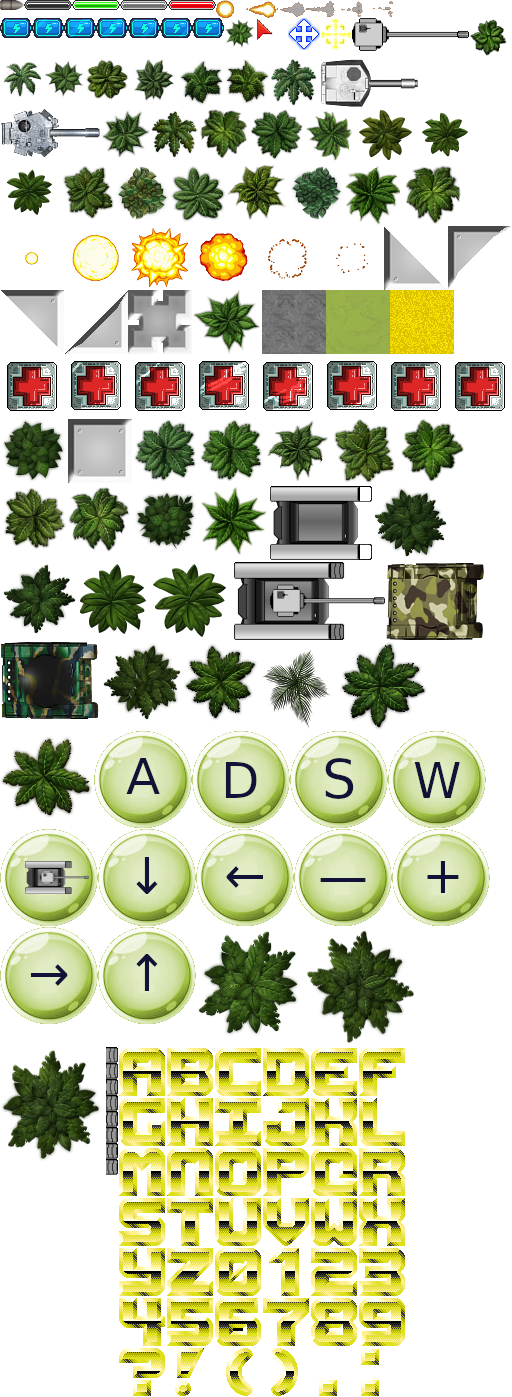
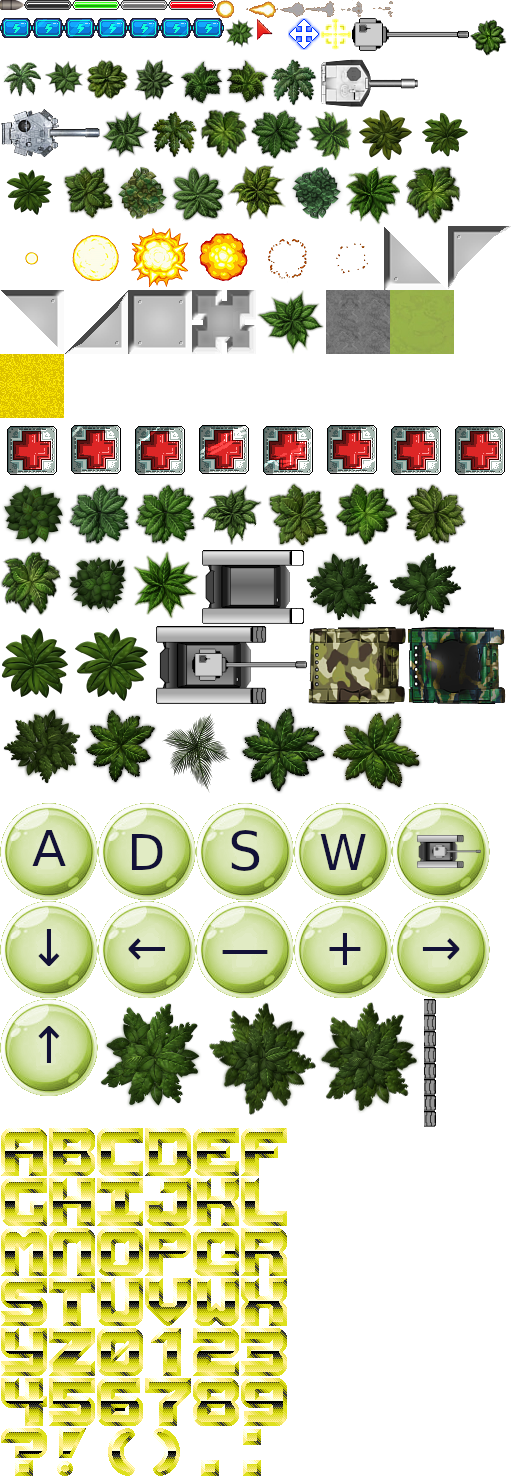
SG2DUtils: addBorderAlphaTextures; ObjectBaseLifeBand: onCameraRotate

diff --git a/sg2d-utils.js b/sg2d-utils.js
@@ -119,41 +119,58 @@ export default class SG2DUtils {
 		canvasMask._pixiId = config.name;
 		var texture = PIXI.Texture.from(canvasMask);
 		texture.canvas = canvasMask;
+		texture._isFinalTexture = true;
 		
 		//(new Image()).src = canvasMask.toDataURL();
 		
 		return canvasMask;
 	}
 	
+	/** @private */
+	static _optionsBAT = {};
+	
 	/**
 	 * Make the border of the sprites semi-transparent (to eliminate artifacts in the form of stripes at the edges of terrain tiles)
-	 * @param {array} amTextures Array of textures
-	 * @param {number} [alpha1=0.5] Transparency for the outermost border (1 pixel from the edge)
-	 * @param {number} [alpha2=1] Transparency for the border 2 pixels from the edge
+	 * @param {object} options
+	 * @param {array}		[options.textures=void 0] Array of textures
+	 * @param {number}		[options.alpha=0.995] Transparency for the outermost border (1 pixel from the edge)
+	 * @param {number}		[options.alpha2=1] Transparency for the border 2 pixels from the edge
 	 */
-	static borderAlphaTextures(amTextures, alpha1 = 0.5, alpha2 = 1) {
-		for (var i = 0; i < amTextures.length; i++) {
-			var texture = typeof amTextures[i] === "object" ? amTextures[i] : PIXI.utils.TextureCache[amTextures[i]];
+	static setBorderAlphaTextures(options={}) {
+		options.textures = options.textures || [];
+		if (! options.textures.length) {
+			this._getFinalTextures(options.textures);
+		}
+		for (var i = 0; i < options.textures.length; i++) {
+			var texture = typeof options.textures[i] === "object" ? options.textures[i] : PIXI.utils.TextureCache[options.textures[i]];
 			if (texture) {
-				this.borderAlphaTexture(PIXI.utils.TextureCache[amTextures[i]], alpha1, alpha2);
+				this._optionsBAT.texture = texture;
+				this._optionsBAT.alpha = options.alpha;
+				this._optionsBAT.alpha2 = options.alpha2;
+				this.setBorderAlphaTexture(this._optionsBAT);
 			} else {
-				console.warn("Texture with name \"" + amTextures[i] + "\" not found!");
+				console.warn("Texture with name \"" + options.textures[i] + "\" not found!");
 			}
 		}
 	}
 	
 	/**
 	 * Make the border of the sprite semi-transparent (to eliminate artifacts in the form of stripes at the edges of terrain tiles)
-	 * @param {PIXI.Texture|string} mTexture
-	 * @param {number} [alpha1=0.5] Transparency for the outermost border (1 pixel from the edge)
-	 * @param {number} [alpha2=1] Transparency for the border 2 pixels from the edge
+	 * @param {object} options
+	 * @param {PIXI.Texture|string}	options.texture
+	 * @param {number}				[options.alpha=0.995] Transparency for the outermost border (1 pixel from the edge)
+	 * @param {number}				[options.alpha2=1] Transparency for the border 2 pixels from the edge
 	 */
-	static borderAlphaTexture(mTexture, alpha1 = 0.5, alpha2 = 1) {
+	static setBorderAlphaTexture(options={}) {
 		
-		alpha1 = ~~(alpha1 * 256);
-		alpha2 = ~~(alpha2 * 256);
+		if (options.alpha === void 0) options.alpha = 0.995;
+		if (options.alpha2 === void 0) options.alpha2 = 1;
 		
-		let canvas = this.getTextureAsCanvas(mTexture);
+		options.alpha = ~~(options.alpha * 256);
+		options.alpha2 = ~~(options.alpha2 * 256);
+		
+		let texture_src = typeof options.texture === "object" ? options.texture : PIXI.utils.TextureCache(options.texture);
+		let canvas = this.getTextureAsCanvas(texture_src);
 		var ctx = canvas.getContext("2d");
 		var imageData = ctx.getImageData(0, 0, canvas.width, canvas.height);
 		var l = canvas.width * canvas.height * 4;
@@ -162,19 +179,61 @@ export default class SG2DUtils {
 			var y = Math.floor(p / canvas.width);
 			var x = p - y * canvas.width;
 			if (x === 0 || y === 0 || x === canvas.width-1 || y === canvas.height-1) {
-				imageData.data[i+3] = Math.min(imageData.data[i+3], alpha1);
+				imageData.data[i+3] = Math.min(imageData.data[i+3], options.alpha);
 			}
-			if (alpha2 < 255 && (x === 1 || y === 1 || x === canvas.width-2 || y === canvas.height-2)) {
-				imageData.data[i+3] = Math.min(imageData.data[i+3], alpha2);
+			if (options.alpha2 < 255 && (x === 1 || y === 1 || x === canvas.width-2 || y === canvas.height-2)) {
+				imageData.data[i+3] = Math.min(imageData.data[i+3], options.alpha2);
 			}
 		}
 		ctx.putImageData(imageData, 0, 0);
 		
 		PIXI.Texture.removeFromCache(canvas.texture);
+		PIXI.BaseTexture.removeFromCache(canvas.texture);
 		
 		canvas._pixiId = canvas.texture;
-		var texture = PIXI.Texture.from(canvas);
-		texture.canvas = canvas;
+		var texture_dest = PIXI.Texture.from(canvas);
+		texture_dest.canvas = canvas;
+		texture_dest._isFinalTexture = texture_src._isFinalTexture;
+	}
+	
+	/**
+	 * Adds a transparent border to a 1 pixel sprite so that PIXI smooths the edges of the sprite when rotated.
+	 * @param {object} options
+	 * @param {array}		[options.textures=void 0]
+	 * @param {boolean}	[options.all=false] If TRUE then a transparent border is added if the sprite has opaque pixels on the border.
+	 */
+	static addBorderAlphaTextures(options) {
+		options.textures = options.textures || [];
+		if (! options.textures.length) {
+			this._getFinalTextures(options.textures);
+		}
+		for (var i = 0; i < options.textures.length; i++) {
+			var texture = typeof options.textures[i] === "object" ? options.textures[i] : PIXI.utils.TextureCache[options.textures[i]];
+			if (texture) {
+				var srcCanvas = SG2DUtils.getTextureAsCanvas(texture);
+				var destCanvas = SG2DUtils.createCanvas(texture.width + 2, texture.height + 2);
+				var destCtx = destCanvas.getContext("2d");
+				destCtx.drawImage(srcCanvas, 1, 1);
+				destCanvas._pixiId = texture.textureCacheIds[0] || texture.canvas._pixiId;
+				PIXI.Texture.removeFromCache(destCanvas._pixiId);
+				PIXI.BaseTexture.removeFromCache(destCanvas._pixiId);
+				var textureDest = PIXI.Texture.from(destCanvas);
+				textureDest.canvas = destCanvas;
+				textureDest._isFinalTexture = texture._isFinalTexture;
+			} else {
+				console.warn("Texture with name \"" + options.textures[i] + "\" not found!");
+			}
+		}
+	}
+	
+	/** @private */
+	static _getFinalTextures(textures) {
+		for (var name in PIXI.utils.TextureCache) {
+			var texture = PIXI.utils.TextureCache[name];
+			if (texture._isFinalTexture) {
+				textures.push(texture);
+			}
+		}
 	}
 	
 	// TODO DEL: (не исп-ся?)
@@ -285,6 +344,7 @@ export default class SG2DUtils {
 			canvas._pixiId = config.name.replace("%", j);
 			var texture = PIXI.Texture.from(canvas);
 			texture.canvas = canvas;
+			texture._isFinalTexture = true;
 			
 			dataPrev = data;
 		}
@@ -293,12 +353,14 @@ export default class SG2DUtils {
 		if (! PIXI.utils.TextureCache[nameStart]) {
 			canvasStart._pixiId = nameStart;
 			var texture = PIXI.Texture.from(canvasStart);
+			texture._isFinalTexture = true;
 		}
 		
 		var nameEnd = config.name.replace("%", config.count);
 		if (! PIXI.utils.TextureCache[nameEnd]) {
 			canvasEnd._pixiId = nameEnd;
 			var texture = PIXI.Texture.from(canvasEnd);
+			texture._isFinalTexture = true;
 		}
 	}
 	
@@ -307,10 +369,12 @@ export default class SG2DUtils {
 			if (r.substr(-6, 6) === "_image") continue;
 			var resource = resources[r];
 			for (var code in resource.textures) {
+				
+				var baseTexture = resource.textures[code];
+				
 				var m = code.match(/(.+)_(\d+)x(\d+)(\w)?(\.\w+)?$/); // Search for pictures with a specific name, for example: "explosion_64x64.png"
 				if (m) {
-					var baseTexture = resource.textures[code];
-					
+					baseTexture._isFinalTexture = false;
 					//SG2DUtils.getTextureUrl(code).then((res)=>{ (new Image()).src = res; }); // debugging
 					
 					var name = m[1];
@@ -335,14 +399,20 @@ export default class SG2DUtils {
 								rect.height = h;
 								rect.x = baseTexture.frame.x + px;
 								rect.y = baseTexture.frame.y + py;
-								var tex = new PIXI.Texture(baseTexture, rect);
-								PIXI.Texture.addToCache(tex, texture_name);
+								var texture = new PIXI.Texture(baseTexture, rect);
+								PIXI.Texture.addToCache(texture, texture_name);
+								texture._isFinalTexture = true;
 								//SG2DUtils.getTextureUrl(name + "_" + index).then((res)=>{ (new Image()).src = res; }); // debugging
 							}
 						}
 					} else {
 						throw "dir vertical no supported! (TODO)";
 					}
+					
+					PIXI.Texture.removeFromCache(baseTexture);
+					PIXI.BaseTexture.removeFromCache(baseTexture);
+				} else {
+					baseTexture._isFinalTexture = true;
 				}
 			}
 		}
@@ -356,6 +426,11 @@ export default class SG2DUtils {
 			} else {
 				const loader = new PIXI.Loader()
 				loader.add(SG2DConsts.SYSTEM_TILES).load((loader, resources)=>{
+					for (var i = 0; i < SG2DConsts.SYSTEM_TILES.length; i++) {
+						PIXI.Texture.removeFromCache( SG2DConsts.SYSTEM_TILES[i].url );
+						PIXI.BaseTexture.removeFromCache( SG2DConsts.SYSTEM_TILES[i].url );
+						PIXI.utils.TextureCache[ SG2DConsts.SYSTEM_TILES[i].name ]._isFinalTexture = true;
+					}
 					resolve();
 				});
 			}

diff --git a/example/main.js b/example/main.js
@@ -19,9 +19,6 @@ import Player from "./classes/player.js";
 
 class Application {
 	
-	static AREASIZE = 128;
-	static CELLSIZEPIX = 64;
-	
 	constructor() {
 		
 		window.app = this;
@@ -43,14 +40,14 @@ class Application {
 		//PIXI.settings.PRECISION_FRAGMENT = PIXI.PRECISION.MEDIUM;
 		this.scene =  new SG2D({
 			canvasId: "canvas",
-			cellsizepix: Application.CELLSIZEPIX,
+			cellsizepix: 64,
 			pixi: { // config passed to PIXI.Application constructor
 				antialias: true,
 				autoStart: false
 			},
 			camera: {
 				rotation: true,
-				rotate: 0,
+				rotate: 45,
 				position: {x: 224, y: 224}, // Start position of the camera. Default [0, 0]
 				scale_min: 2,
 				scale_max: 16,
@@ -58,7 +55,7 @@ class Application {
 				rotate_adjustment: -90 // Base offset of the camera angle in degrees. Default 0
 			},
 			clusters: {
-				areasize: Application.AREASIZE
+				areasize: 128
 			},
 			mouse: {
 				cursors: {
@@ -94,7 +91,7 @@ class Application {
 		// Graphic effects
 		this.sceneEffect = SceneEffects.toApply(this.scene);
 		
-		this.player = new Player({ position: this.scene.clusters.getCluster(5,5).position, angle: 0 }, { mouse: this.scene.mouse, camera: camera });
+		this.player = new Player({ position: this.scene.clusters.getCluster(5,5).position, angle: 45 }, { mouse: this.scene.mouse, camera: camera });
 		
 		/**
 		* The camera can move smoothly behind the player.

diff --git a/example/classes/scene-ui.js b/example/classes/scene-ui.js
@@ -105,12 +105,13 @@ export default class SceneUI {
 		this.buttonCameraScaleOut.sprite.position.set(x_base, y_base - w - w);
 		this.buttonCameraScaleIn.sprite.position.set(x_base, y_base - w);
 		
-		x_base = w + 5;
-		y_base = this.scene.canvas.height - w - w - 10;
-		this.buttonCameraMoveLeft.sprite.position.set(x_base - w - 5, y_base);
-		this.buttonCameraMoveRight.sprite.position.set(x_base + w + 5, y_base);
-		this.buttonCameraMoveUp.sprite.position.set(x_base, y_base - w - 5);
-		this.buttonCameraMoveDown.sprite.position.set(x_base, y_base + w + 5);
-		this.buttonCameraMoveToPlayer.sprite.position.set(x_base, y_base);
+		x_base = 5;
+		y_base = this.scene.canvas.height - 5;
+		this.buttonCameraMoveUp.sprite.position.set(x_base, y_base - 5 * w - 20);
+		this.buttonCameraMoveLeft.sprite.position.set(x_base, y_base - 4 * w - 15);
+		this.buttonCameraMoveToPlayer.sprite.position.set(x_base, y_base - 3 * w - 10);
+		this.buttonCameraMoveRight.sprite.position.set(x_base, y_base - w - w - 5);
+		this.buttonCameraMoveDown.sprite.position.set(x_base, y_base - w);
+		
 	}
 }

diff --git a/example/classes/player.js b/example/classes/player.js
@@ -106,28 +106,14 @@ export default class Player extends ObjectBaseLifeBand {
 		this.keyProcess = this.keyProcess.bind(this);
 		this.mouse.pointerclick = this.pointerClick.bind(this);
 		this.calcTurretAngleTarget = this.calcTurretAngleTarget.bind(this);
-		this.onCameraRotate = this.onCameraRotate.bind(this);
 		
 		this.mouse.on("pxy", this.calcTurretAngleTarget);
 		document.addEventListener("keydown", this.keyProcess);
 		document.addEventListener("keyup", this.keyProcess);
-		this.camera.on("rotate", this.onCameraRotate);
 		
 		this.on("state", this.stateChange);
 		
 		this.set("angle", this.properties.angle, { sprites: [this.sprites.platform, this.sprites.track_left, this.sprites.track_right] });
-	}
-	
-	// the life bar is always at the bottom of the sprite, taking into account the rotation of the camera
-	onCameraRotate(rotate) {
-		if (this.camera.properties.rotation) {
-			this.set("angle", rotate - this.camera.rotate_adjustment, {
-				sprites: [
-					this.sprites.lifeband_base,
-					this.sprites.lifeband_value
-				]
-			});
-		}
 	}
 	
 	keyProcess(e) {

diff --git a/example/classes/object-base-life-band.js b/example/classes/object-base-life-band.js
@@ -37,6 +37,25 @@ export default class ObjectBaseLifeBand extends SG2DTile {
 		}, SG2DTile.defaultProperties);
 	}
 	
+	initialize(...args) {
+		super.initialize(...args);
+		
+		this.onCameraRotate = this.onCameraRotate.bind(this);
+		this.camera.on("rotate", this.onCameraRotate, void 0, void 0, SGModel.FLAG_IMMEDIATELY);
+	}
+	
+	// the life bar is always at the bottom of the sprite, taking into account the rotation of the camera
+	onCameraRotate(rotate) {
+		if (this.camera.properties.rotation) {
+			this.set("angle", rotate - this.camera.rotate_adjustment, {
+				sprites: [
+					this.sprites.lifeband_base,
+					this.sprites.lifeband_value
+				]
+			});
+		}
+	}
+	
 	setHealth(value = void 0, options = SGModel.OBJECT_EMPTY, flags = 0) {
 		if (this.set("health", value, options, flags | SGModel.FLAG_IGNORE_OWN_SETTER)) {
 			this.set("scale", { x: this.properties.health / this.constructor.HEALTH_MAX, y: 1 }, { sprite: this.sprites.lifeband_value });

diff --git a/example/classes/graphics-preparer.js b/example/classes/graphics-preparer.js
@@ -27,10 +27,13 @@ export default class GraphicsPreparer {
 			this.cursors.move = "url('" + URL.createObjectURL(await SG2DUtils.getTextureAsBlob("ui/cursor_move")) + "') 16 16,auto";
 
 			// Process sprites to eliminate stripe artifacts
-			SG2DUtils.borderAlphaTextures([
-				"lands/concrete", "lands/grass", "lands/sand",
-				"elements/block-corner-45", "elements/block-corner-135", "elements/block-corner-225", "elements/block-corner-315"
-			], 0.995);
+			SG2DUtils.setBorderAlphaTextures();
+			
+			// Processing sprites to eliminate ribbing when rotating sprites
+			SG2DUtils.addBorderAlphaTextures({
+				textures: ["elements/block-standard", "elements/block-corner-45", "elements/block-corner-135", "elements/block-corner-225", "elements/block-corner-315", "elements/block-steel"],
+				all: true
+			});
 
 			this.promise.resolve();
 		});

diff --git a/sg2d.js b/sg2d.js
@@ -275,13 +275,13 @@ export default class SG2D {
 		
 		this.mouse.iterate();
 		
-		if (this.camera.properties.scale > 2) {
+		//if (this.camera.properties.scale > 2) {
 			for (var cluster of this.camera.clustersInCamera) {
 				for (var tile of cluster.tiles) {
 					if (tile.iterateAnimations) tile.iterateAnimations(this.frame_index);
 				}
 			}
-		}
+		//}
 		
 		this.iterate_out();
 
